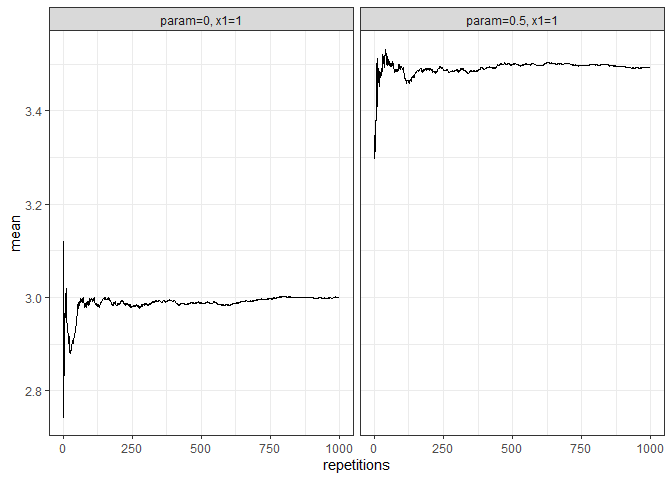
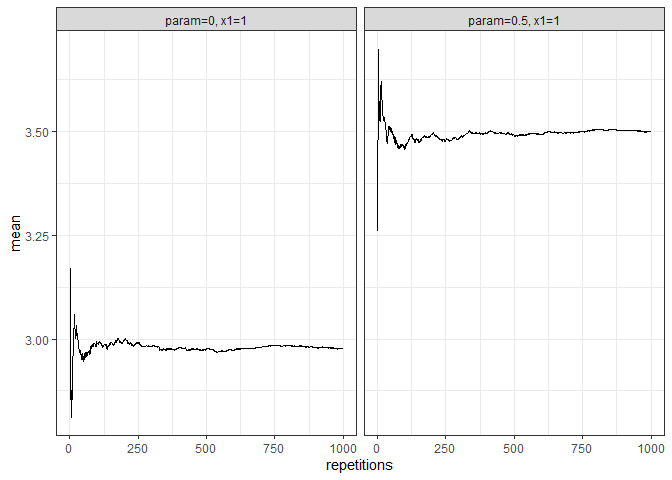
minor changes

diff --git a/README.md b/README.md
@@ -42,11 +42,8 @@ library(tidyMC)
 
 ``` r
 library(magrittr)
-#> Warning: Paket 'magrittr' wurde unter R Version 4.1.3 erstellt
 library(ggplot2)
-#> Warning: Paket 'ggplot2' wurde unter R Version 4.1.3 erstellt
 library(kableExtra)
-#> Warning: Paket 'kableExtra' wurde unter R Version 4.1.3 erstellt
 ```
 
 This is a basic example which shows you how to solve a common problem.
@@ -90,7 +87,7 @@ test_mc <- future_mc(
 #> Running whole simulation: Overall 6 parameter combinations are simulated ...
 #> 
 #>  Simulation was successfull!
-#>  Running time: 00:00:00.403919
+#>  Running time: 00:00:00.726548
 
 test_mc
 #> Monte Carlo simulation results for the specified function: 
@@ -116,7 +113,7 @@ test_mc
 #> 6   1.0  2
 #> are each simulated 1000 times. 
 #>  
-#>  The Running time was: 00:00:00.403919 
+#>  The Running time was: 00:00:00.726548 
 #>  
 #>  Parallel: TRUE 
 #>  
@@ -137,21 +134,21 @@ Summarize your results:
 sum_res <- summary(test_mc)
 sum_res
 #> Results for the output mean: 
-#>    param=0, x1=1: 2.999863 
-#>    param=0, x1=2: 4.009949 
-#>    param=0.5, x1=1: 3.493698 
-#>    param=0.5, x1=2: 4.495279 
-#>    param=1, x1=1: 4.00828 
-#>    param=1, x1=2: 5.005333 
+#>    param=0, x1=1: 2.978156 
+#>    param=0, x1=2: 3.992713 
+#>    param=0.5, x1=1: 3.500902 
+#>    param=0.5, x1=2: 4.51591 
+#>    param=1, x1=1: 4.014331 
+#>    param=1, x1=2: 5.013077 
 #>  
 #>  
 #> Results for the output var: 
-#>    param=0, x1=1: 0.9642235 
-#>    param=0, x1=2: 0.9970918 
-#>    param=0.5, x1=1: 0.9952801 
-#>    param=0.5, x1=2: 0.9974433 
-#>    param=1, x1=1: 1.001459 
-#>    param=1, x1=2: 1.012366 
+#>    param=0, x1=1: 1.01179 
+#>    param=0, x1=2: 1.022623 
+#>    param=0.5, x1=1: 0.9974572 
+#>    param=0.5, x1=2: 0.9995245 
+#>    param=1, x1=1: 1.003151 
+#>    param=1, x1=2: 1.00385 
 #>  
 #> 
 ```
@@ -218,13 +215,13 @@ tidy_mc_latex(summary(test_mc)) %>%
 #> \toprule
 #> param & x1 & mean & var\\
 #> \midrule
-#> 0.0 & 1 & 3.000 & 0.964\\
-#> 0.0 & 2 & 4.010 & 0.997\\
-#> 0.5 & 1 & 3.494 & 0.995\\
-#> 0.5 & 2 & 4.495 & 0.997\\
-#> 1.0 & 1 & 4.008 & 1.001\\
+#> 0.0 & 1 & 2.978 & 1.012\\
+#> 0.0 & 2 & 3.993 & 1.023\\
+#> 0.5 & 1 & 3.501 & 0.997\\
+#> 0.5 & 2 & 4.516 & 1.000\\
+#> 1.0 & 1 & 4.014 & 1.003\\
 #> \addlinespace
-#> 1.0 & 2 & 5.005 & 1.012\\
+#> 1.0 & 2 & 5.013 & 1.004\\
 #> \bottomrule
 #> \multicolumn{4}{l}{\textsuperscript{} Total repetitions = 1000,}\\
 #> \multicolumn{4}{l}{total parameter combinations}\\
@@ -249,20 +246,20 @@ tidy_mc_latex(
 #> \midrule
 #> \addlinespace[0.3em]
 #> \multicolumn{3}{l}{\textbf{N = 10}}\\
-#> \hspace{1em}0.0 & 1 & 3.002\\
-#> \hspace{1em}0.0 & 2 & 4.126\\
-#> \hspace{1em}0.5 & 1 & 3.511\\
-#> \hspace{1em}0.5 & 2 & 4.541\\
-#> \hspace{1em}1.0 & 1 & 3.868\\
-#> \hspace{1em}1.0 & 2 & 5.018\\
+#> \hspace{1em}0.0 & 1 & 2.959\\
+#> \hspace{1em}0.0 & 2 & 4.061\\
+#> \hspace{1em}0.5 & 1 & 3.569\\
+#> \hspace{1em}0.5 & 2 & 4.568\\
+#> \hspace{1em}1.0 & 1 & 3.936\\
+#> \hspace{1em}1.0 & 2 & 4.991\\
 #> \addlinespace[0.3em]
 #> \multicolumn{3}{l}{\textbf{N = 1000}}\\
-#> \hspace{1em}0.0 & 1 & 3.000\\
-#> \hspace{1em}0.0 & 2 & 4.010\\
-#> \hspace{1em}0.5 & 1 & 3.494\\
-#> \hspace{1em}0.5 & 2 & 4.495\\
-#> \hspace{1em}1.0 & 1 & 4.008\\
-#> \hspace{1em}1.0 & 2 & 5.005\\
+#> \hspace{1em}0.0 & 1 & 2.978\\
+#> \hspace{1em}0.0 & 2 & 3.993\\
+#> \hspace{1em}0.5 & 1 & 3.501\\
+#> \hspace{1em}0.5 & 2 & 4.516\\
+#> \hspace{1em}1.0 & 1 & 4.014\\
+#> \hspace{1em}1.0 & 2 & 5.013\\
 #> \bottomrule
 #> \multicolumn{3}{l}{\textsuperscript{} Total repetitions =}\\
 #> \multicolumn{3}{l}{1000, total}\\
